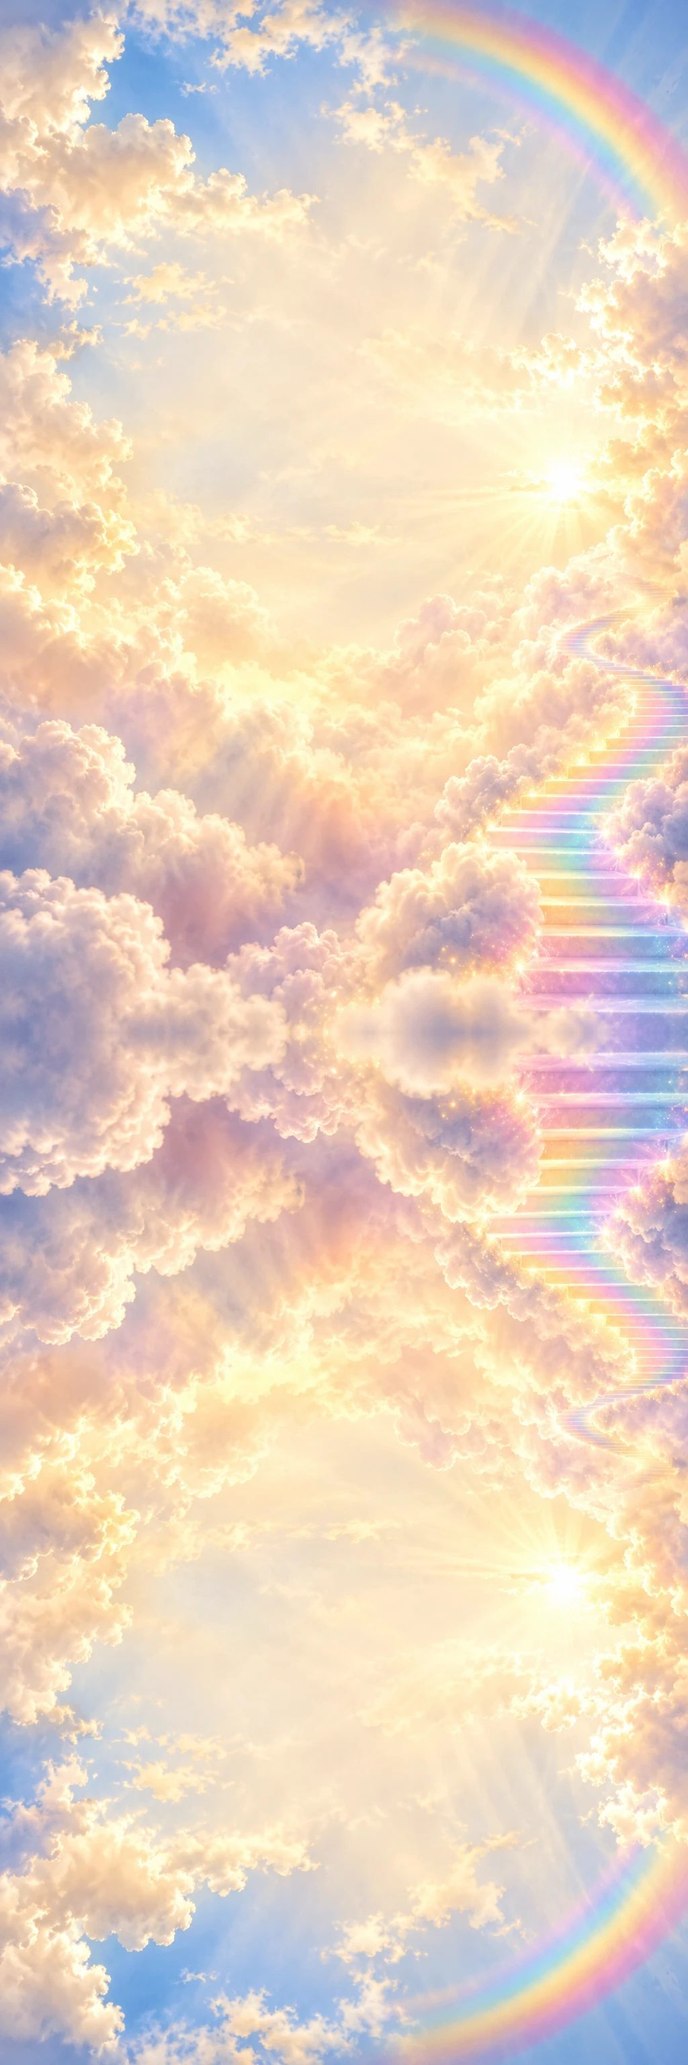
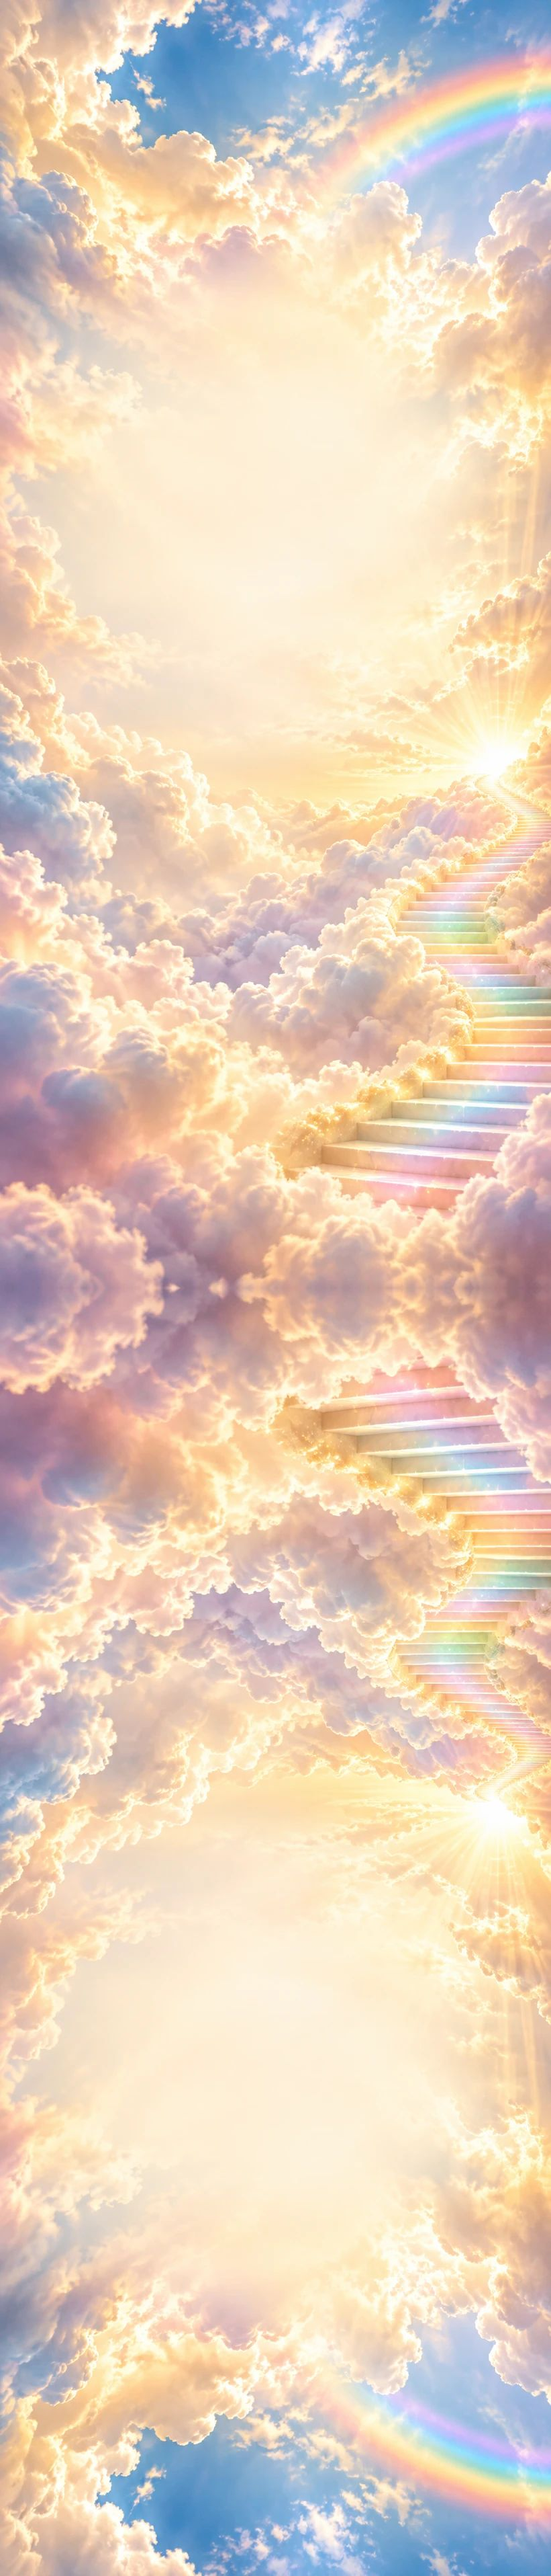
Serve a sky image matched to each screen shape

diff --git a/index.html b/index.html
@@ -17,15 +17,19 @@
   <link rel="preconnect" href="https://fonts.gstatic.com" crossorigin>
   <link rel="stylesheet" href="https://fonts.googleapis.com/css2?family=Cinzel:wght@500;700;800&family=Yellowtail&family=Barlow:wght@400;600;700&display=swap">
   <style>
-    :root { --navy: #0f2250; --blue: #1f4fc4; --cream: #fffaf0; }
+    :root { --navy: #0f2250; --blue: #1f4fc4; --cream: #fffaf0; --sky: url("/photos/sky-tablet.jpg"); --a: 0.6667; }
+    /* Pick the sky image closest to the screen shape. Each file is the sky plus a mirrored copy, so it continues past its edges. */
+    @media (max-aspect-ratio: 1/2) { :root { --sky: url("/photos/sky-tall.jpg"); --a: 0.4285; } }
+    @media (min-aspect-ratio: 1/2) and (max-aspect-ratio: 5/8) { :root { --sky: url("/photos/sky-phone.jpg"); --a: 0.5628; } }
+    @media (min-aspect-ratio: 1/1) { :root { --sky: url("/photos/sky-wide.jpg"); --a: 1.7768; } }
     * { box-sizing: border-box; }
     html { -webkit-text-size-adjust: 100%; }
-    body { margin: 0; color: var(--navy); font: 400 18px/1.5 "Barlow", system-ui, sans-serif; overflow-x: hidden; background: #f3dcd0 url("/photos/sky-tall.jpg") top center / 100% auto repeat-y; }
-    /* Fixed sky, 400px taller than the screen at both ends so it also paints under Safari's status bar and toolbar. The image is sized for the screen, and the mirrored tall version continues it above and below. */
+    body { margin: 0; color: var(--navy); font: 400 18px/1.5 "Barlow", system-ui, sans-serif; overflow-x: hidden; background: #f3dcd0 var(--sky) top center / 100% auto repeat-y; }
+    /* Fixed sky, 400px taller than the screen at both ends so it also paints under Safari's status bar and toolbar. The image is sized to cover the screen, and its mirrored copy continues it above and below. */
     .sky { position: fixed; left: 0; width: 100%; top: -400px; height: calc(100vh + 800px); height: calc(100lvh + 800px); z-index: -1; transform: translateZ(0);
-      background: #f3dcd0 url("/photos/sky-tall.jpg") repeat-y;
-      background-size: max(100vw, 66.667vh) auto; background-size: max(100vw, 66.667lvh) auto;
-      background-position: center calc(400px + (100vh - 1.5 * max(100vw, 66.667vh)) / 2); background-position: center calc(400px + (100lvh - 1.5 * max(100vw, 66.667lvh)) / 2); }
+      background: #f3dcd0 var(--sky) repeat-y;
+      background-size: max(100vw, calc(var(--a) * 100vh)) auto; background-size: max(100vw, calc(var(--a) * 100lvh)) auto;
+      background-position: center calc(400px + (100vh - max(100vw, calc(var(--a) * 100vh)) / var(--a)) / 2); background-position: center calc(400px + (100lvh - max(100vw, calc(var(--a) * 100lvh)) / var(--a)) / 2); }
     main { position: relative; max-width: 1040px; margin: 0 auto; padding: calc(34px + env(safe-area-inset-top)) max(20px, env(safe-area-inset-right)) calc(28px + env(safe-area-inset-bottom)) max(20px, env(safe-area-inset-left)); text-align: center; }
     .caps { font-family: "Cinzel", Georgia, serif; text-transform: uppercase; letter-spacing: .04em; }
     .script { font: 400 clamp(30px, 6vw, 40px)/1.1 "Yellowtail", cursive; margin: 0; }
